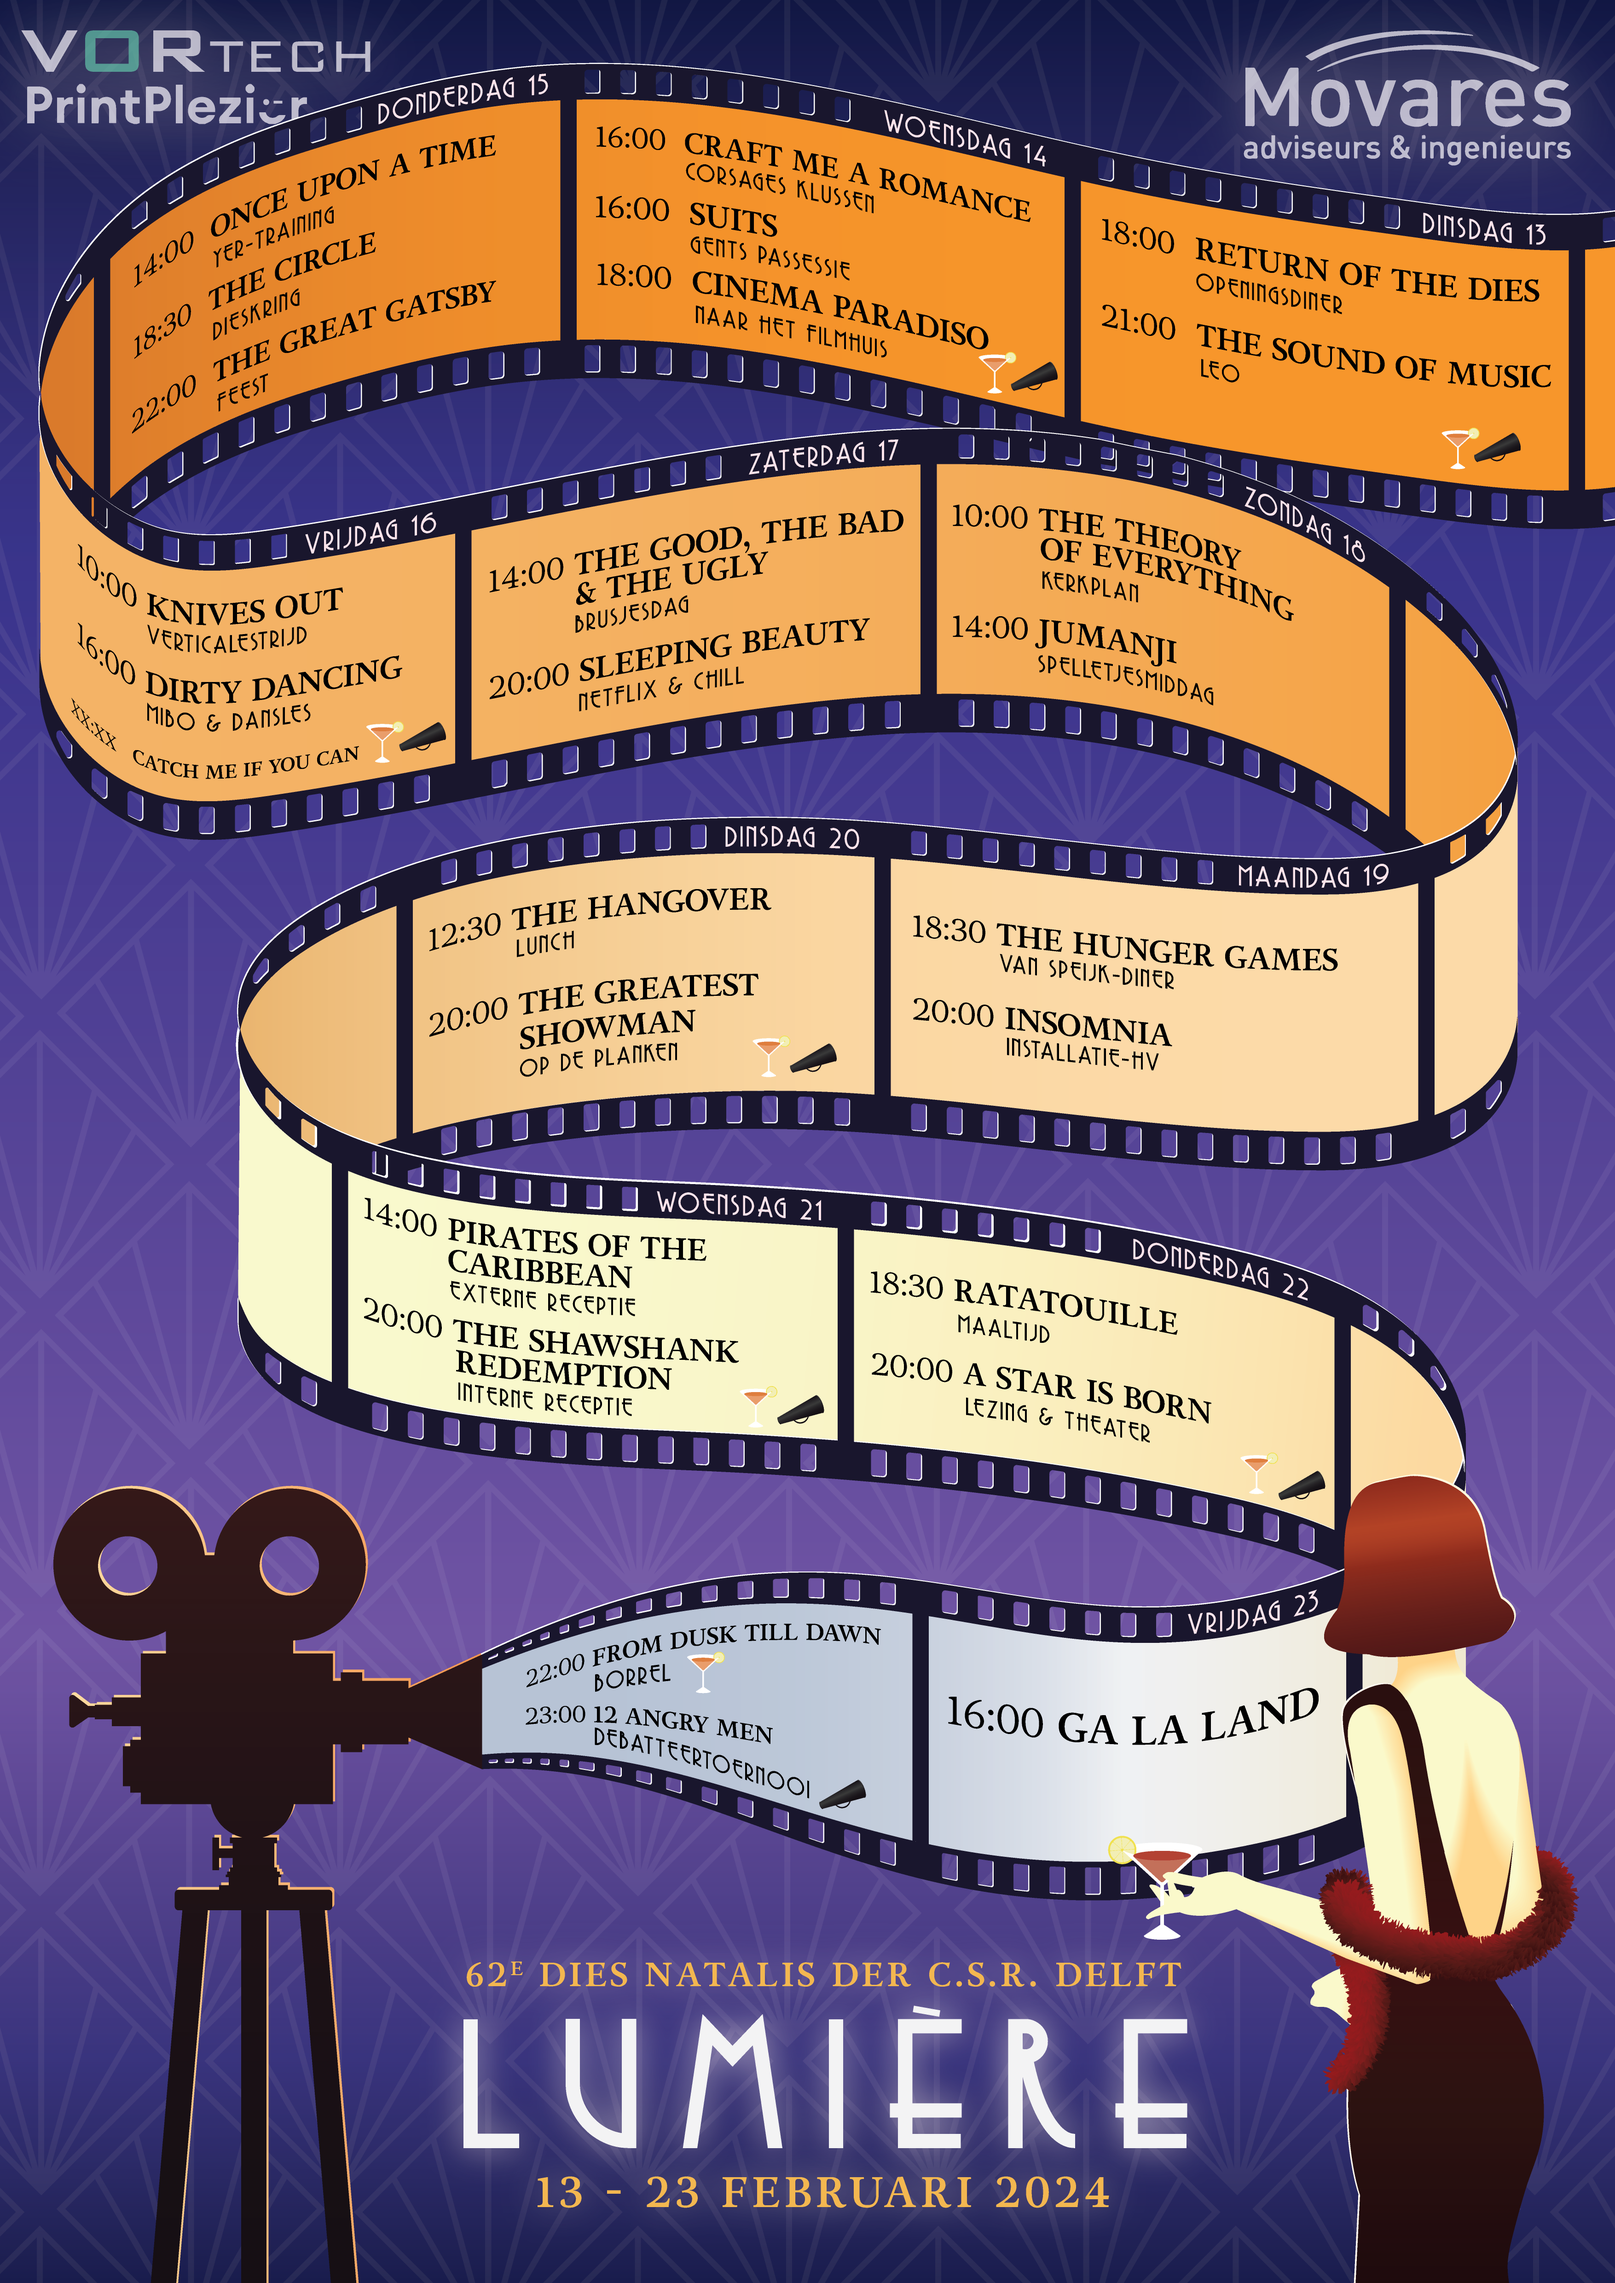
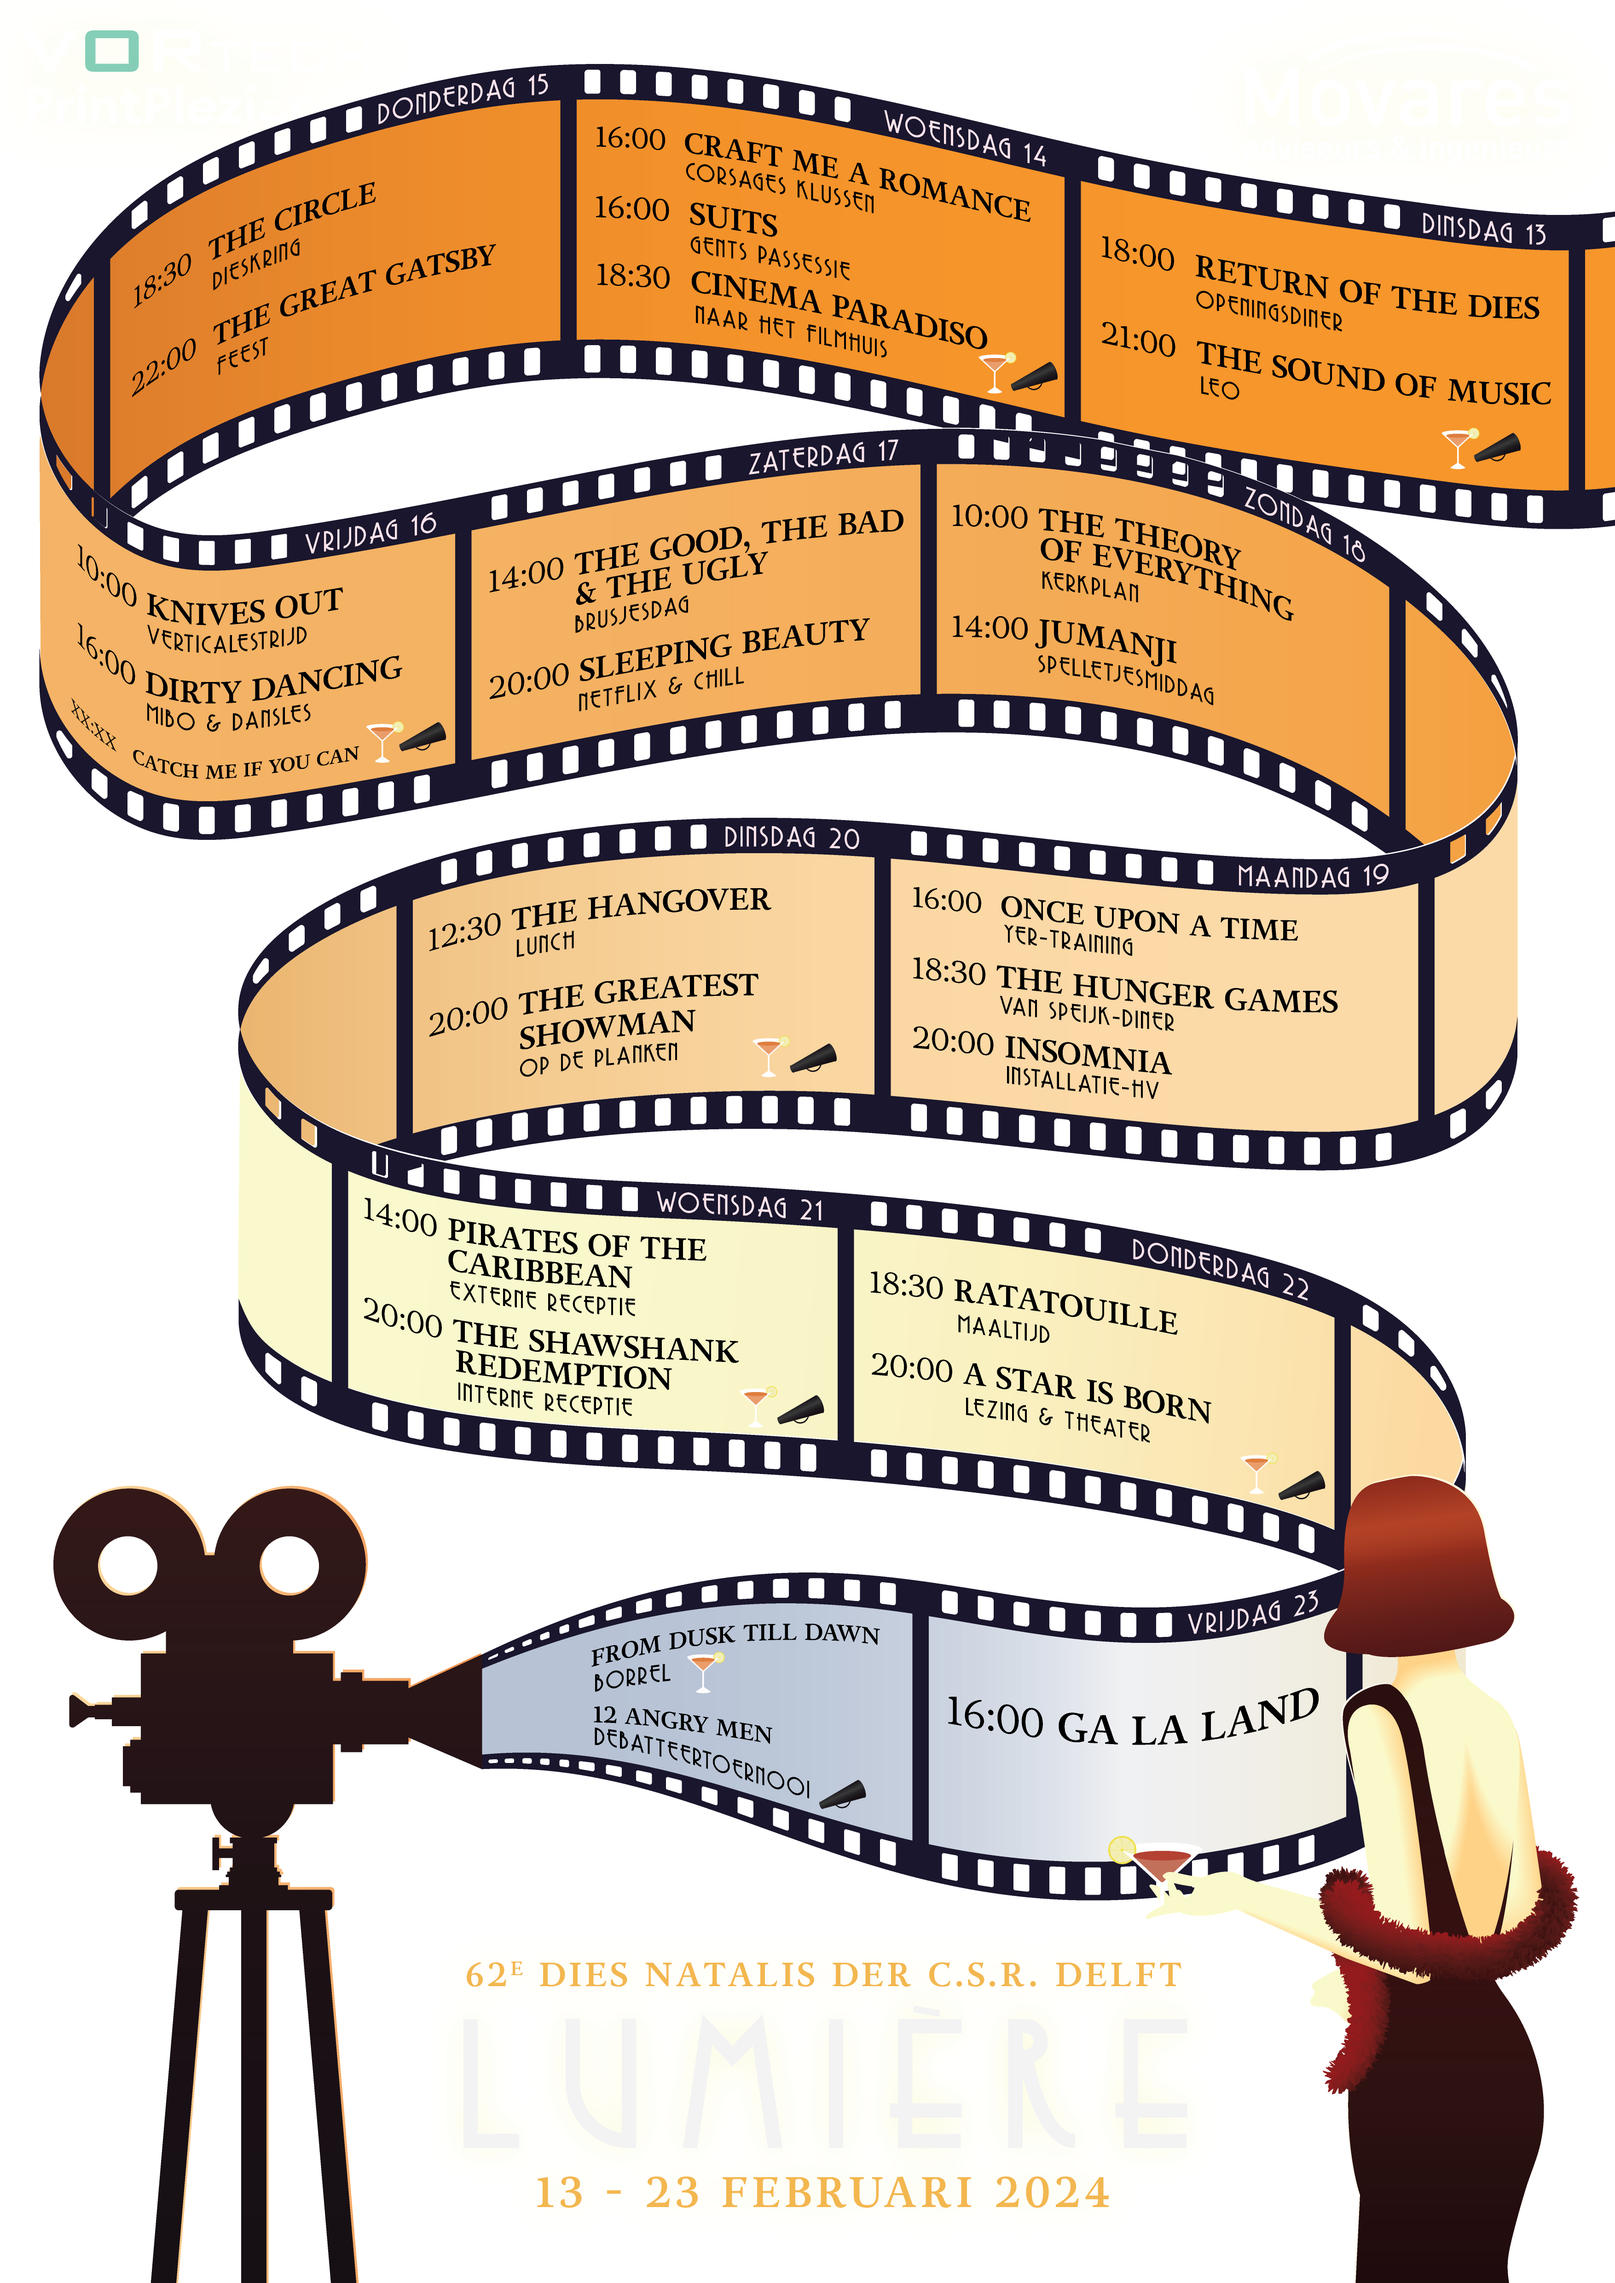
Fix posters

diff --git a/assets/scss/dies2024/dies2024.scss b/assets/scss/dies2024/dies2024.scss
@@ -36,9 +36,10 @@ $kleur-oranje-25: #fcfae0;
 $kleur-wit: #ffffff;
 $kleur-zwart: #121534;
 
-$kleur-text-wit: #fBf8cc;
+$kleur-text-wit: #fbf8cc;
 $kleur-text-wit-onhover: #d3d1ad;
 $kleur-text-blauw: #39358a;
+$kleur-text-zwart: #0e143b;
 $kleur-oranje-1: #ed8a22;
 $kleur-oranje-2: #f1b770;
 $kleur-oranje-3: #fad9a8;
@@ -96,6 +97,8 @@ nav {
 	margin-top: 50px;
 	padding: 0%;
 	margin-bottom: -36px;
+	background: url("../../images/dies2024/Achtergrond.svg");
+	background-size: 100%;
 }
 
 body {
@@ -187,26 +190,20 @@ section {
 	background-color: $kleur-oranje-3;
 	p {
 		font-size: 1rem;
-		color: $kleur-geel-19;
+		color: $kleur-text-zwart;
 	}
 	.margin-bottom {
 		margin-bottom: 2rem;
 	}
 
 	h4 {
-		color: $kleur-geel-19;
+		color: $kleur-text-zwart;
 	}
-	h2 {
+	h2, .titel {
 		color: $kleur-text-blauw;
 	}
 	h3 {
-		color: $kleur-geel-19;
-	}
-	.titel {
-		color: $kleur-text-blauw
-	}
-	.subkopje-etiquette {
-		color: $kleur-text-blauw
+		color: $kleur-oranje-1;
 	}
 }
 

diff --git a/assets/scss/dies2024/style.scss b/assets/scss/dies2024/style.scss
@@ -93,11 +93,11 @@ nav {
 		text-align: center;
 	}
 	width: 100%;
-	color: $kleur-geel-19;
+	// color: $kleur-geel-19;
 	// text-align: center;
 	text-transform: uppercase;
-	border-bottom: 2px solid $kleur-geel-19;
-	box-shadow: 0px 6px 6px -6px $kleur-geel-20;
+	// border-bottom: 2px solid $kleur-geel-19;
+	// box-shadow: 0px 6px 6px -6px $kleur-geel-20;
 	margin-bottom: 15px;
 	// text-shadow:
 	//   0 0 2px $kleur-wit,
